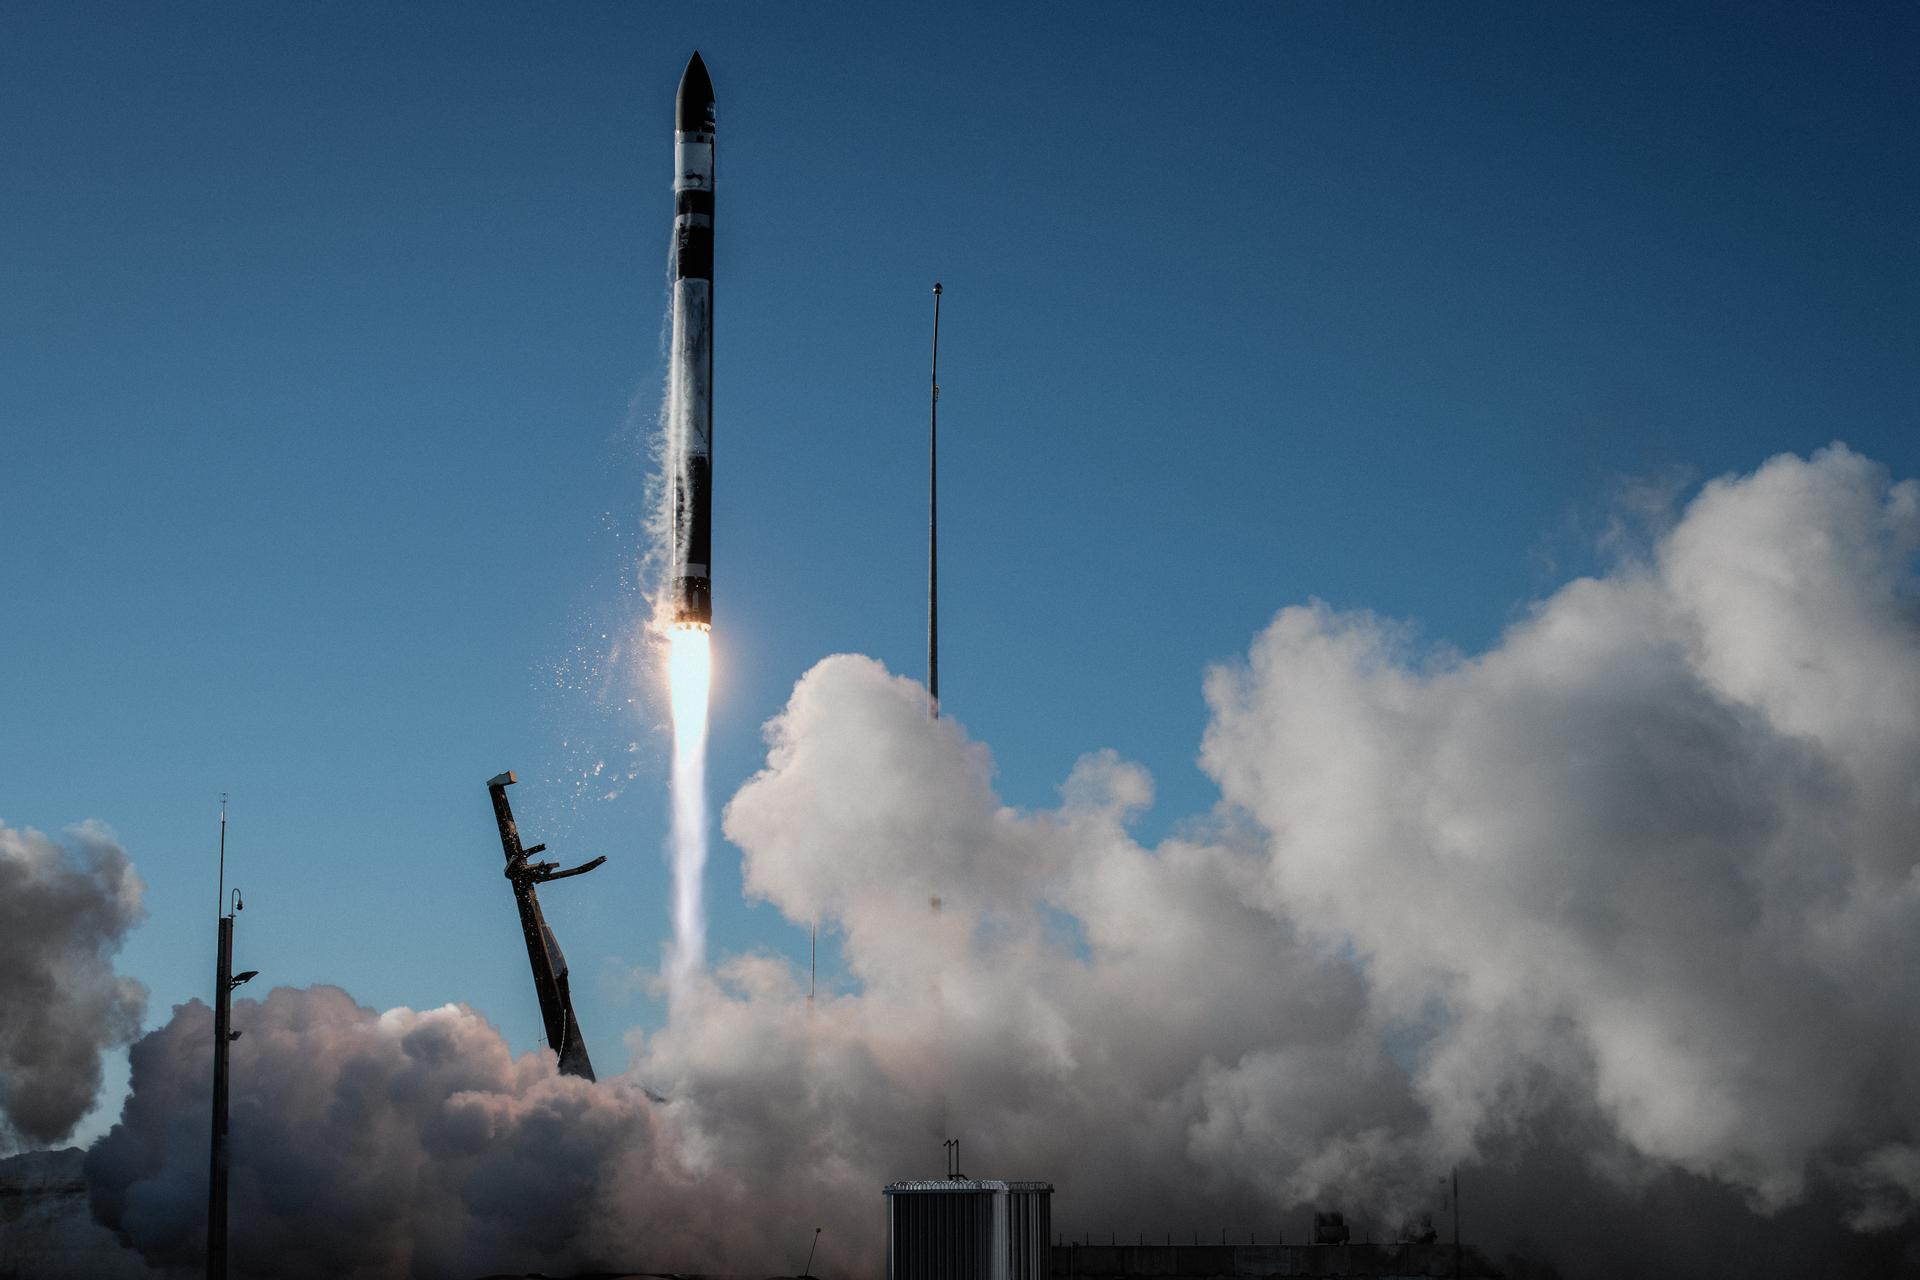
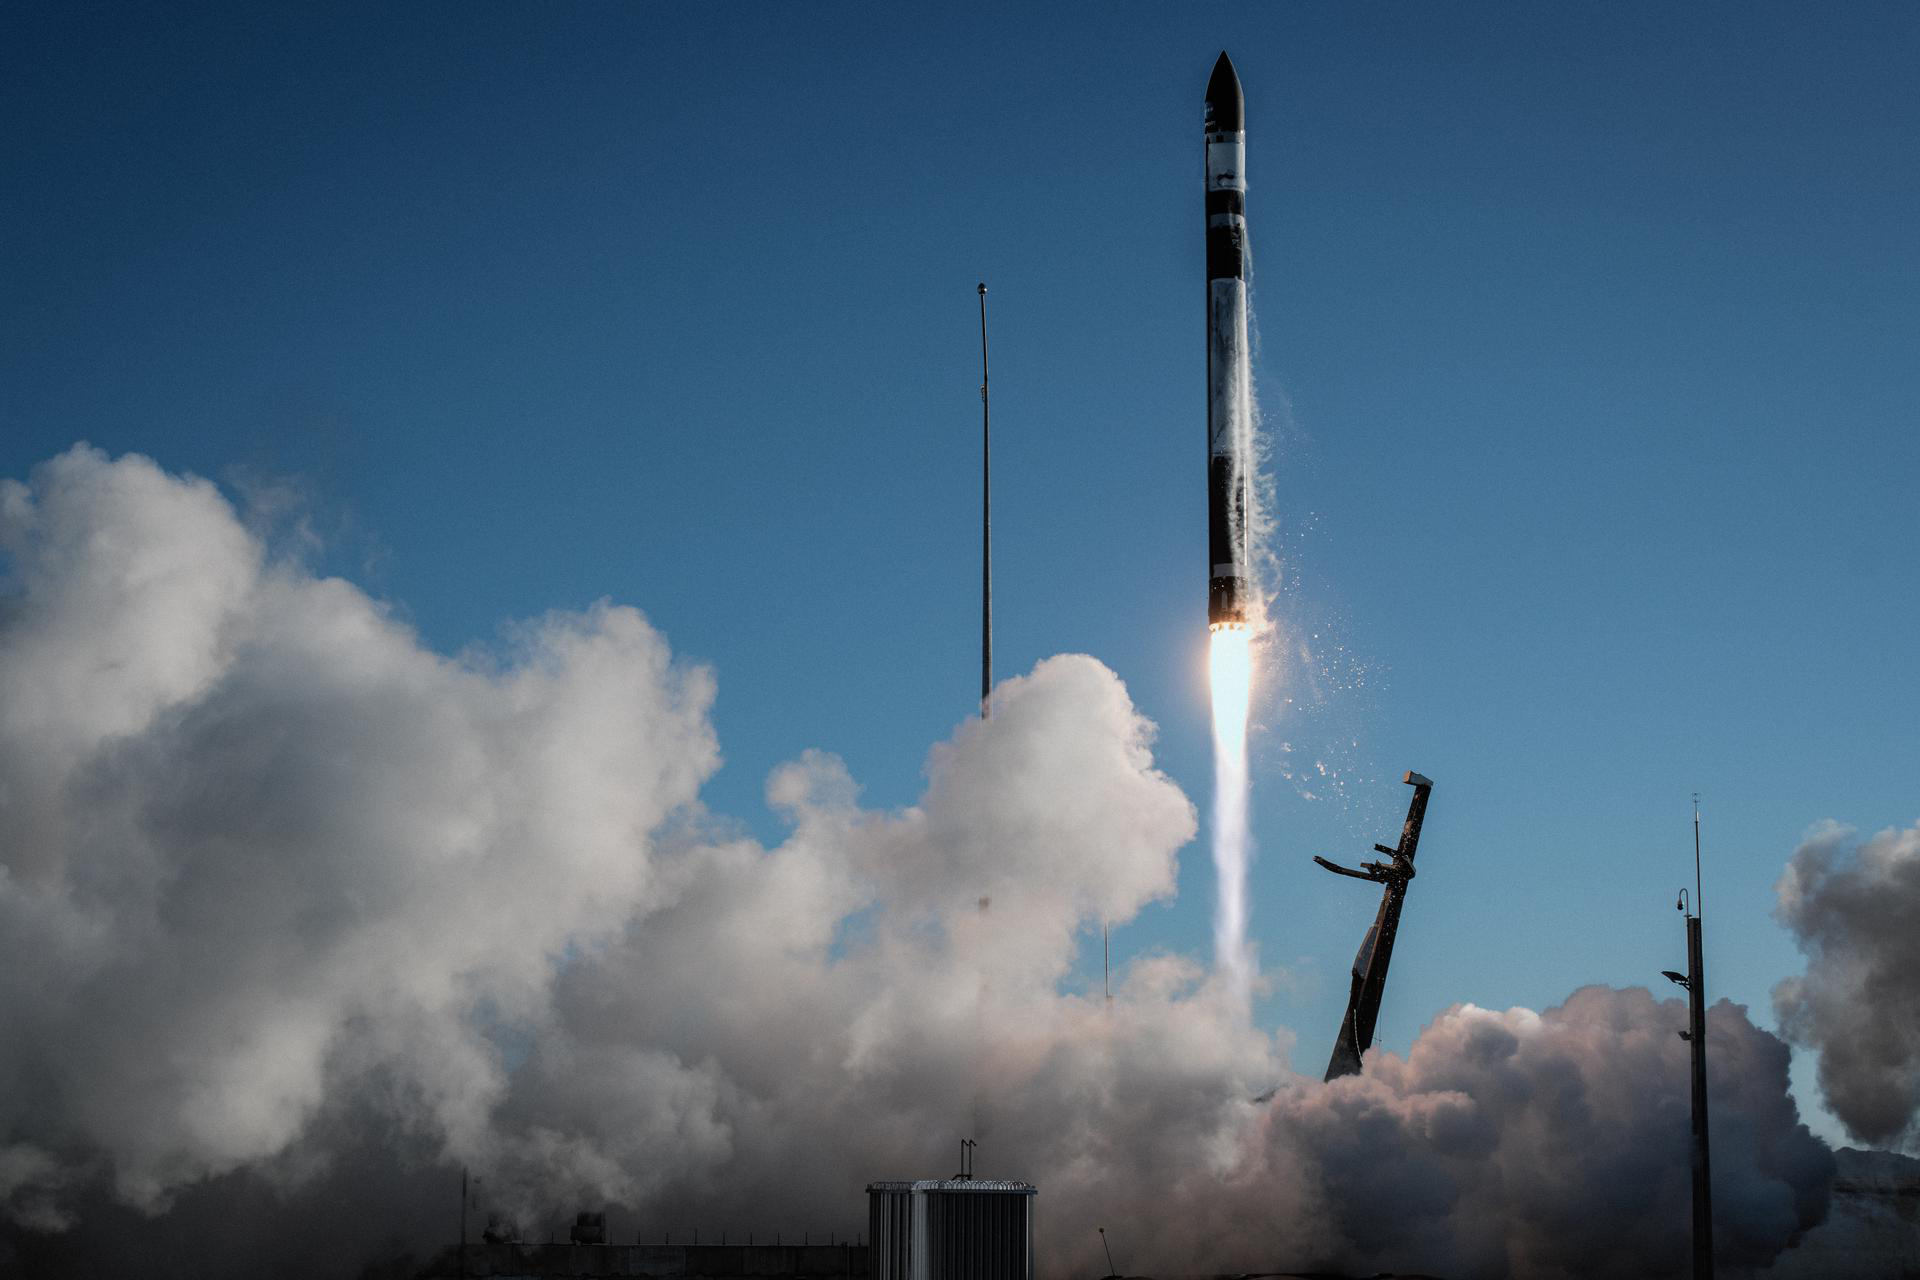
added filler section, started contact
added text content to final section of index page. Flipped image orientation to make readability better. Started work on image attribute links. Started work on contact page.

diff --git a/index.html b/index.html
@@ -8,13 +8,15 @@
 
     <link rel="stylesheet" href="css/index.css">
     <link rel="stylesheet" href="css/site-wide.css">
-    <link href="https://fonts.googleapis.com/css2?family=Aldrich&family=Anta&family=Gugi&display=swap" rel="stylesheet">
+    <link
+        href="https://fonts.googleapis.com/css2?family=Aldrich&family=Anta&family=Gugi&family=Work+Sans:ital@1&display=swap"
+        rel="stylesheet">
 
     <meta name="author" content="Project Athena">
     <meta name="keywords" content="">
     <meta name="description" content="">
 
-    <script src="js/index.js"></script>
+    <script src="js/index.js" defer></script>
 
 </head>
 
@@ -41,9 +43,11 @@
                 <p>
                     <a class="button-class " href="launch.html" target="_blank">Watch Launch</a>
                 </p>
-                 <div id="launch-countdown">Next Launch:<br><span id="countdown-text"></span></div>
+                <div id="launch-countdown">Next Launch:<br><span id="countdown-text">Calculating...</span></div>
             </div>
-           
+            <!-- <div class="picture-attribute">
+                <a href="" target="_blank">Picture Attribute</a>
+            </div> -->
         </header>
         <section id="mission-statement">
             <div>
@@ -88,32 +92,32 @@
             <video muted loop id="kennedy-video">
                 <source src="videos/kennedy.mp4" type="video/mp4">
             </video>
-
+           
         </section>
-        <section id="launch-schedule">
+        <section id="sagan-quote">
             <div>
-                <h2>Taking the next step, for all mankind.</h2>
+                <h2>Working towards expanding the fronteir of tomorrow.</h2>
                 <p>
-                    Aliqua nisi nulla aliquip nostrud nostrud ad minim ad proident
-                    consequat adipisicing voluptate. Dolor in in et pariatur
-                    reprehenderit exercitation ea sit proident ea aliquip velit
-                    ad est. Quis non nisi magna fugiat fugiat. Sunt sunt qui
-                    pariatur quis nisi veniam officia reprehenderit ea sint.
-                    Ex ipsum id incididunt eiusmod non fugiat commodo. Ut deserunt
-                    ad sit exercitation aliquip cillum veniam in aute laborum
-                    occaecat et.
+                <blockquote>
+                    "Look again at that dot. That's here. That's home. That's us.
+                    On it everyone you love, everyone you know, everyone you ever
+                    heard of, every human being who ever was, lived out their lives.
+                    The aggregate of our joy and suffering, thousands of confident religions,
+                    ideologies, and economic doctrines, every hunter and forager, every hero and
+                    coward, every creator and destroyer of civilization, every king and peasant,
+                    every young couple in love, every mother and father, hopeful child, inventor
+                    and explorer, every teacher of morals, every corrupt politician, every "superstar,"
+                    every "supreme leader," every saint and sinner in the history of our species
+                    lived there--on a mote of dust suspended in a sunbeam."
+                    <footer>— <cite>Carl Sagan, Pale Blue Dot, 1994.</cite></footer>
+                </blockquote>
                 </p>
                 <p>
-                    Aliqua nisi nulla aliquip nostrud nostrud ad minim ad proident
-                    consequat adipisicing voluptate. Dolor in in et pariatur
-                    reprehenderit exercitation ea sit proident ea aliquip velit
-                    ad est. Quis non nisi magna fugiat fugiat. Sunt sunt qui
-                    pariatur quis nisi veniam officia reprehenderit ea sint.
-                    Ex ipsum id incididunt eiusmod non fugiat commodo. Ut deserunt
-                    ad sit exercitation aliquip cillum veniam in aute laborum
-                    occaecat et.
+                    The fragility of mankinds home in the universe plays a large part in driving Project
+                    Athena's team to tackle the emerging technical problems of tomorrow.
                 </p>
             </div>
+           
         </section>
     </main>
     <footer>
@@ -121,8 +125,10 @@
 
         <div id="footer-content">
             <div id="social-links-holder">
-                <a href="https://www.x.com" target="_blank"><img id="x-logo"  src="images/social-logos/x-logo.svg" width="20px"></a>
-                <a href="https://www.instagram.com" target="_blank"><img id="instagram-logo"  src="images/social-logos/instagram-logo.svg" width="30px"></a>
+                <a href="https://www.x.com" target="_blank"><img id="x-logo" src="images/social-logos/x-logo.svg"
+                        width="20px"></a>
+                <a href="https://www.instagram.com" target="_blank"><img id="instagram-logo"
+                        src="images/social-logos/instagram-logo.svg" width="30px"></a>
 
             </div>
             <div>

diff --git a/css/index.css b/css/index.css
@@ -78,10 +78,6 @@ header>div p {
     background-repeat: no-repeat;
 }
 
-#kennedy-box>div:hover {
-    background-color: rgba(0, 0, 0, .8);
-}
-
 #mission-statement>div {
     width: 30%;
     margin: 15% 0 0 7%;
@@ -91,16 +87,19 @@ header>div p {
     transition: 1s;
 }
 
-#mission-statement>div p {
+#mission-statement>div p,
+#sagan-quote>div p {
     line-height: 1.5rem;
 }
 
-#mission-statement>div:hover {
+#mission-statement>div:hover,
+#kennedy-box>div:hover,
+#sagan-quote>div:hover {
     background-color: rgba(0, 0, 0, .8);
 
 }
 
-#launch-schedule {
+#sagan-quote {
     padding-top: 1px;
     background-image: url("../images/launch.jpg");
     background-color: black;
@@ -110,7 +109,7 @@ header>div p {
     background-repeat: no-repeat;
 }
 
-#launch-schedule>div {
+#sagan-quote>div {
     width: 30%;
     margin: 15% 0 0 7%;
     background-color: rgba(0, 0, 0, 0);
@@ -125,9 +124,20 @@ header>div p {
     width: 50%;
     text-align: center;
     padding: 0 15px;
-    font-size:.7rem;
+    font-size: .7rem;
+    line-height: 1.2rem;
 
 }
+
 #launch-countdown #countdown-text {
-    font-size:1rem;
+    font-size: 1rem;
+}
+.picture-attribute{
+    position:absolute;
+    right:0;
+    bottom:0;
+    z-index:2;
+    text-align:right;
+    width:30px;
+
 }

diff --git a/contact.html b/contact.html
@@ -31,9 +31,19 @@
         </div>
     </nav>
     <header id="contact-top">
-
+        <div>
+            <h1>Get in touch.</h1>
+        </div>
     </header>
+    <main>
+        <section id="contact-form-section">
+            <form id="contact-form">
+                <input type="email" name="email" placeholder="Email Address">
+                <input type="text" name="name" placeholder="Name">
+                <textarea name="contact-content" placeholder="What would you like to say?"></textarea>
+            </form>
+        </section>
+    </main>
 </body>
 
 </html>
-

diff --git a/css/site-wide.css b/css/site-wide.css
@@ -2,6 +2,7 @@ body {
     margin: 0px;
     padding: 0px;
     min-height: 100vh;
+    background-color:black;
 }
 
 p {
@@ -71,6 +72,7 @@ h4,
 h5 {
     font-family: 'Aldrich', 'Verdana', sans-serif;
     text-transform: uppercase;
+    color:white;
 }
 
 footer {
@@ -157,4 +159,13 @@ footer li {
 .button-class:hover {
     background-color: rgba(255, 255, 255, 1);
     color: black;
+}
+blockquote {
+    font-family: 'Work Sans', 'Verdana', sans-serif;
+    font-size: 1rem;
+}
+blockquote>footer{
+    background:none;
+    text-align: right;
+    color:white;
 }

diff --git a/js/index.js b/js/index.js
@@ -1,5 +1,5 @@
 //hides the countdown timer until the countdown has been calculated and set
-//document.getElementById("launch-countdown").hidden = true;
+
 
 // toggles the play state of the video playing in the background of panel 3
 function toggleVideo() {
@@ -40,9 +40,7 @@ var x = setInterval(function() {
   // Display the result in the element with id="demo"
   document.getElementById("countdown-text").innerHTML = days + "d " + hours + "h "
   + minutes + "m " + seconds + "s ";
-//   if (document.getElementById("launch-countdown").hidden == true) {
-//     document.getElementById("launch-countdown").hidden = false;
-//   }
+
 
   // If the count down is finished, write some text
   if (distance < 0) {

diff --git a/css/contact.css b/css/contact.css
@@ -1,0 +1,4 @@
+header {
+    padding-top: 70px;
+    text-align:center;
+}